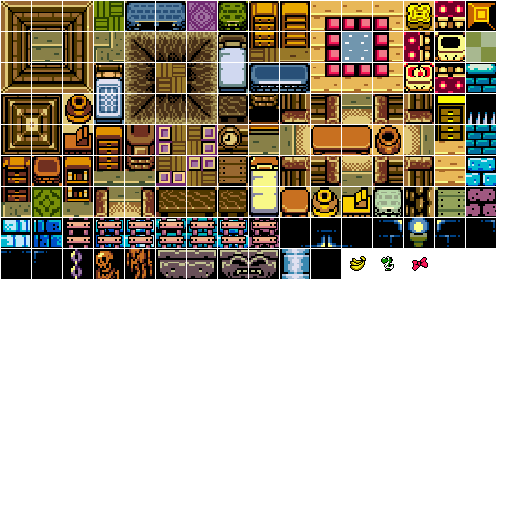
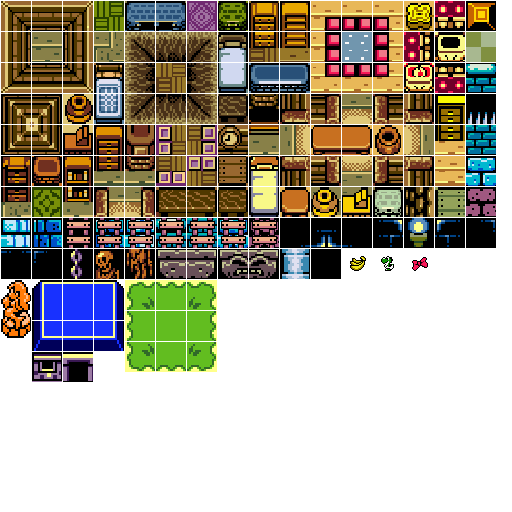
finished visual tweaks

Changed region(s): [[0.0, 0.5312, 0.4375, 0.75]]

diff --git a/DepthBase/Game.cs b/DepthBase/Game.cs
@@ -23,10 +23,12 @@ namespace DepthBase {
         protected int[][] room1Layout = new int[][] {
             new int[] { 1, 1, 1, 1, 1, 1, 1, 1, 1, 1, 1, 1, 1, 1 },
             new int[] { 1, 0, 0, 0, 0, 0, 0, 1, 0, 0, 0, 0, 0, 1 },
-            new int[] { 1, 0, 1, 0, 0, 0, 0, 1, 0, 0, 0, 0, 0, 1 },
-            new int[] { 1, 0, 0, 0, 0, 1, 0, 0, 0, 0, 1, 0, 0, 1 },
-            new int[] { 1, 0, 0, 0, 0, 0, 0, 0, 0, 0, 1, 0, 0, 2 },
+            new int[] { 1, 3, 4, 5, 0, 0, 0, 1, 0, 0, 0, 0, 0, 1 },
+            new int[] { 1, 6, 7, 8, 0, 1, 0, 0, 0, 0, 1, 0, 0, 1 },
+            new int[] { 1, 9,10, 9, 0, 0, 0, 0, 0, 0, 1, 0, 0, 2 },
             new int[] { 1, 0, 0, 0, 0, 0, 0, 1, 0, 0, 1, 1, 1, 1 },
+            new int[] { 1, 0, 0, 0, 0, 1, 0, 1, 0, 0, 0, 0, 0, 1 },
+            new int[] { 1, 0, 0, 0, 0, 1, 0, 1, 0, 0, 0, 0, 0, 1 },
             new int[] { 1, 0, 0, 0, 0, 1, 0, 1, 0, 0, 0, 0, 0, 1 },
             new int[] { 1, 1, 1, 1, 1, 1, 1, 1, 1, 1, 1, 1, 1, 1 }
         };
@@ -42,9 +44,17 @@ namespace DepthBase {
         protected Map currentMap = null;
 
         protected Rectangle[] spriteSources = new Rectangle[] {
-            new Rectangle(466,32,30,30),
-            new Rectangle(466,1,30,30),
-            new Rectangle(32,187,30,30)
+            /* 0*/new Rectangle(466,32,30,30),
+            /* 1*/new Rectangle(466,1,30,30),
+            /* 2*/new Rectangle(32,187,30,30),
+            /* 3*/new Rectangle(32,280,30,40), // Top-left
+            /* 4*/new Rectangle(63,280,30,40), // Top-middle
+            /* 5*/new Rectangle(94,280,30,40), // Top-right
+            /* 6*/new Rectangle(32,321,30,30), // Middle-left
+            /* 7*/new Rectangle(63,321,30,30), // Middle-middle
+            /* 8*/new Rectangle(94,321,30,30), // Middle-right
+            /* 9*/new Rectangle(32,352,30,30),
+            /*10*/new Rectangle(63,352,30,30)
         };
         public Tile GetTile(PointF pixelPoint) {
             return currentMap[(int)pixelPoint.Y / 30][(int)pixelPoint.X / 30];
@@ -85,7 +95,7 @@ namespace DepthBase {
 
             room1.AddEnemy(npcSheet, new Point(6 * tileSize, 1 * tileSize), true);
             room2.AddEnemy(npcSheet, new Point(1 * tileSize, 4 * tileSize), false);
-            room1.AddItem(spriteSheets, new Rectangle(350, 255, 16, 16), 10, new Point(3 * tileSize + 7, 2 * tileSize + 7));
+            room1.AddItem(spriteSheets, new Rectangle(350, 255, 16, 16), 10, new Point(4 * tileSize + 7, 2 * tileSize + 7));
             room1.AddItem(spriteSheets, new Rectangle(381, 256, 13, 15), 20, new Point(5 * tileSize + 7, 4 * tileSize + 7));
             room2.AddItem(spriteSheets, new Rectangle(412, 256, 16, 15), 30, new Point(4 * tileSize + 7, 2 * tileSize + 7));
         }
@@ -172,7 +182,6 @@ namespace DepthBase {
             room1.Destroy();
             room2.Destroy();
             hero.Destroy();
-
         }
     }
 }

diff --git a/DepthBase/Map.cs b/DepthBase/Map.cs
@@ -33,8 +33,8 @@ namespace DepthBase {
                     Rectangle source = sources[layout[i][j]];
 
                     Point worldPosition = new Point();
-                    worldPosition.X = (int)(j * source.Width);
-                    worldPosition.Y = (int)(i * source.Height);
+                    worldPosition.X = (int)(j * 30);
+                    worldPosition.Y = (int)(i * 30);
                     result[i][j] = new Tile(sheets, source);
                     result[i][j].Walkable = false;
                     result[i][j].IsDoor = false;
@@ -110,6 +110,7 @@ namespace DepthBase {
                 Rectangle intersection = Intersections.Rect(items[i].Rect, hero.Rect);
                 if (intersection.Height * intersection.Width > 0) {
                     Game.Instance.Score += items[i].Value;
+                    items[i].Destroy();
                     items.RemoveAt(i);
                 }
             }

diff --git a/DepthBase/Tile.cs b/DepthBase/Tile.cs
@@ -36,7 +36,7 @@ namespace DepthBase {
             Rectangle renderRect = new Rectangle(Source.Location, Source.Size);
             if (renderRect.Height != 30) {
                 int difference = renderRect.Height - 30;
-                renderRect.Y -= difference;
+                renderPos.Y -= difference;
             }
             //Draw tile
             TextureManager.Instance.Draw(Sprite, renderPos, Scale, renderRect);
